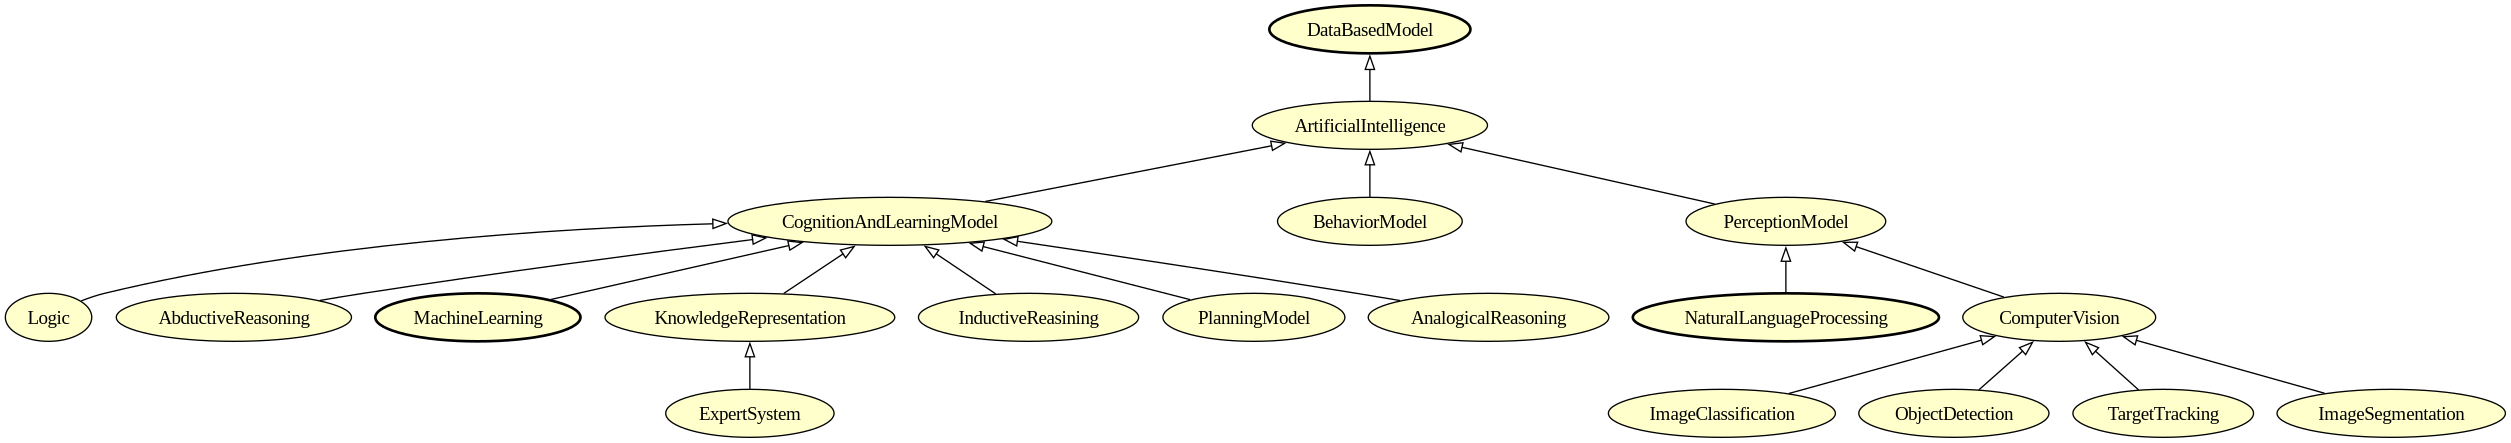
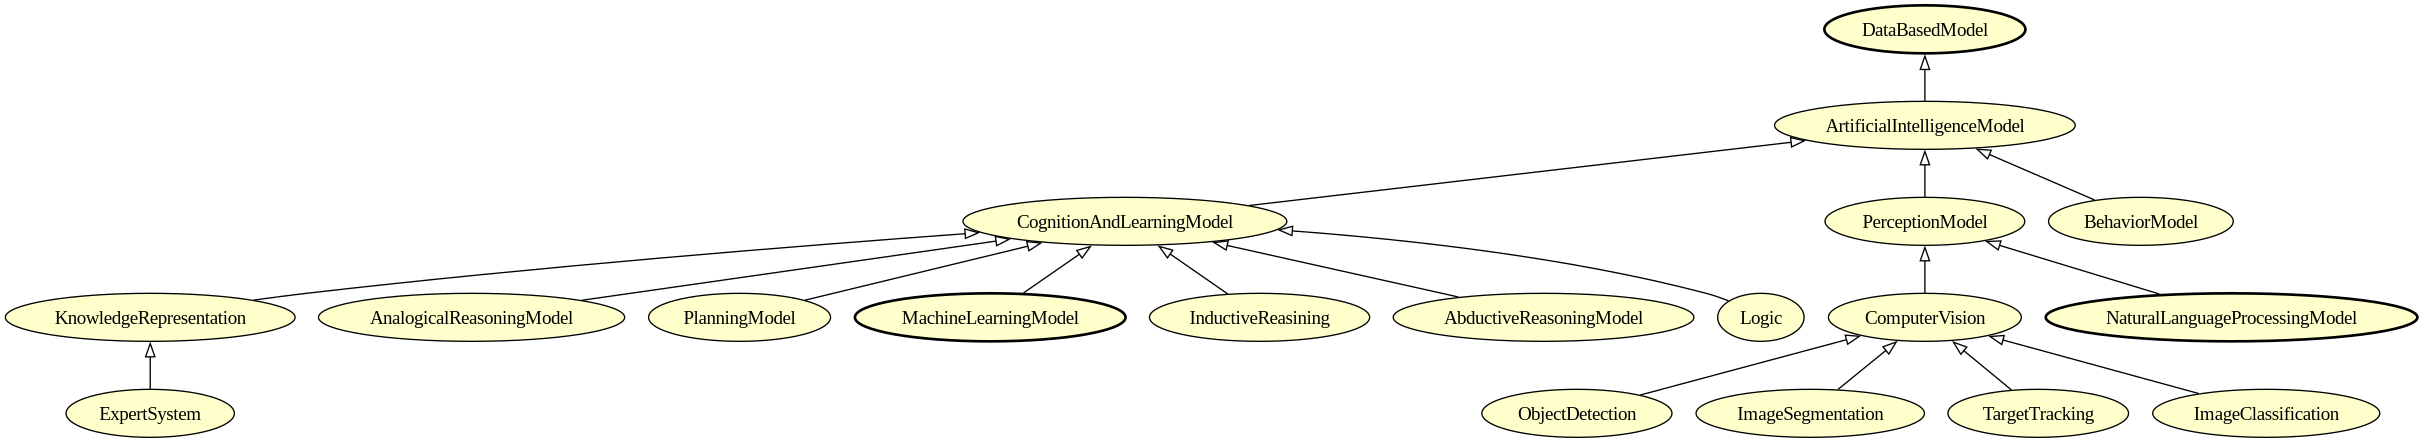
Renamed more concepts and updated figures

diff --git a/docs/models.md b/docs/models.md
@@ -2,7 +2,7 @@
 A model is a useful simplified description of a selected part of the world.
 The PINK Annotation Schema categorises models as shown in the figures below.
 
-<img alt="Top of Model branch." src="https://pink-project.github.io/PINK-annotation-schema/docs/figs/models-top.png" width="60%" style="max-width:none">
+<img alt="Top of Model branch." src="https://pink-project.github.io/PINK-annotation-schema/docs/figs/models-top.png" width="565" style="max-width:none">
 
 
 ## Physics-based models
@@ -10,13 +10,13 @@ Physics-based models are mathematical models based on a fundamental physics theo
 
 The categorisation of physics-based models is anchored in the CEN Workshop Agreement, [CWA 17284 Materials modelling - terminology, classification and metadata](https://www.cencenelec.eu/media/CEN-CENELEC/CWAs/RI/cwa17284_2018.pdf).
 
-<img alt="Physics-based models." src="https://pink-project.github.io/PINK-annotation-schema/docs/figs/models-PhysicsBasedModel.png" width="60%" style="max-width:none">
+<img alt="Physics-based models." src="https://pink-project.github.io/PINK-annotation-schema/docs/figs/models-PhysicsBasedModel.png" width="618" style="max-width:none">
 
 
 ## Statistical models
 Statistical models are mathematical models that embodies a set of statistical assumptions concerning the generation of sample data (and similar data from a larger population).
 
-<img alt="Statistical models." src="https://pink-project.github.io/PINK-annotation-schema/docs/figs/models-StatisticalModel.png" width="60%" style="max-width:none">
+<img alt="Statistical models." src="https://pink-project.github.io/PINK-annotation-schema/docs/figs/models-StatisticalModel.png" width="215" style="max-width:none">
 
 
 ## Data-based models
@@ -26,17 +26,17 @@ The article [*Artificial intelligence in product lifecycle management*](https://
 Additional subclasses relevant to PINK have also been added.
 However, since this article is from before the introduction of the transformer architecture in 2023, the categorisation of modern generative AI is currently rather limited.
 
-<img alt="Data-based models." src="https://pink-project.github.io/PINK-annotation-schema/docs/figs/models-DataBasedModel.png" width="60%" style="max-width:none">
+<img alt="Data-based models." src="https://pink-project.github.io/PINK-annotation-schema/docs/figs/models-DataBasedModel.png" width="1506" style="max-width:none">
 
 Within AI, natural language processsing (NLP) and machine learning is further expanded:
 
-<img alt="Natural language processing." src="https://pink-project.github.io/PINK-annotation-schema/docs/figs/models-NaturalLanguageProcessing.png" width="60%" style="max-width:none">
-<img alt="Machine learning." src="https://pink-project.github.io/PINK-annotation-schema/docs/figs/models-MachineLearning.png" width="60%" style="max-width:none">
+<img alt="Natural language processing model." src="https://pink-project.github.io/PINK-annotation-schema/docs/figs/models-NaturalLanguageProcessingModel.png" width="792" style="max-width:none">
+<img alt="Machine learning model." src="https://pink-project.github.io/PINK-annotation-schema/docs/figs/models-MachineLearningModel.png" width="2089" style="max-width:none">
 
 Finally, machine learning has the sub-branches supervised learning and deep learning:
 
-<img alt="Supervised learning." src="https://pink-project.github.io/PINK-annotation-schema/docs/figs/models-SupervisedLearning.png" width="60%" style="max-width:none">
-<img alt="Deep learning." src="https://pink-project.github.io/PINK-annotation-schema/docs/figs/models-DeepLearning.png" width="60%" style="max-width:none">
+<img alt="Supervised learning model." src="https://pink-project.github.io/PINK-annotation-schema/docs/figs/models-SupervisedLearning.png" width="1509" style="max-width:none">
+<img alt="Deep learning." src="https://pink-project.github.io/PINK-annotation-schema/docs/figs/models-DeepLearning.png" width="1349" style="max-width:none">
 
 
 ---
